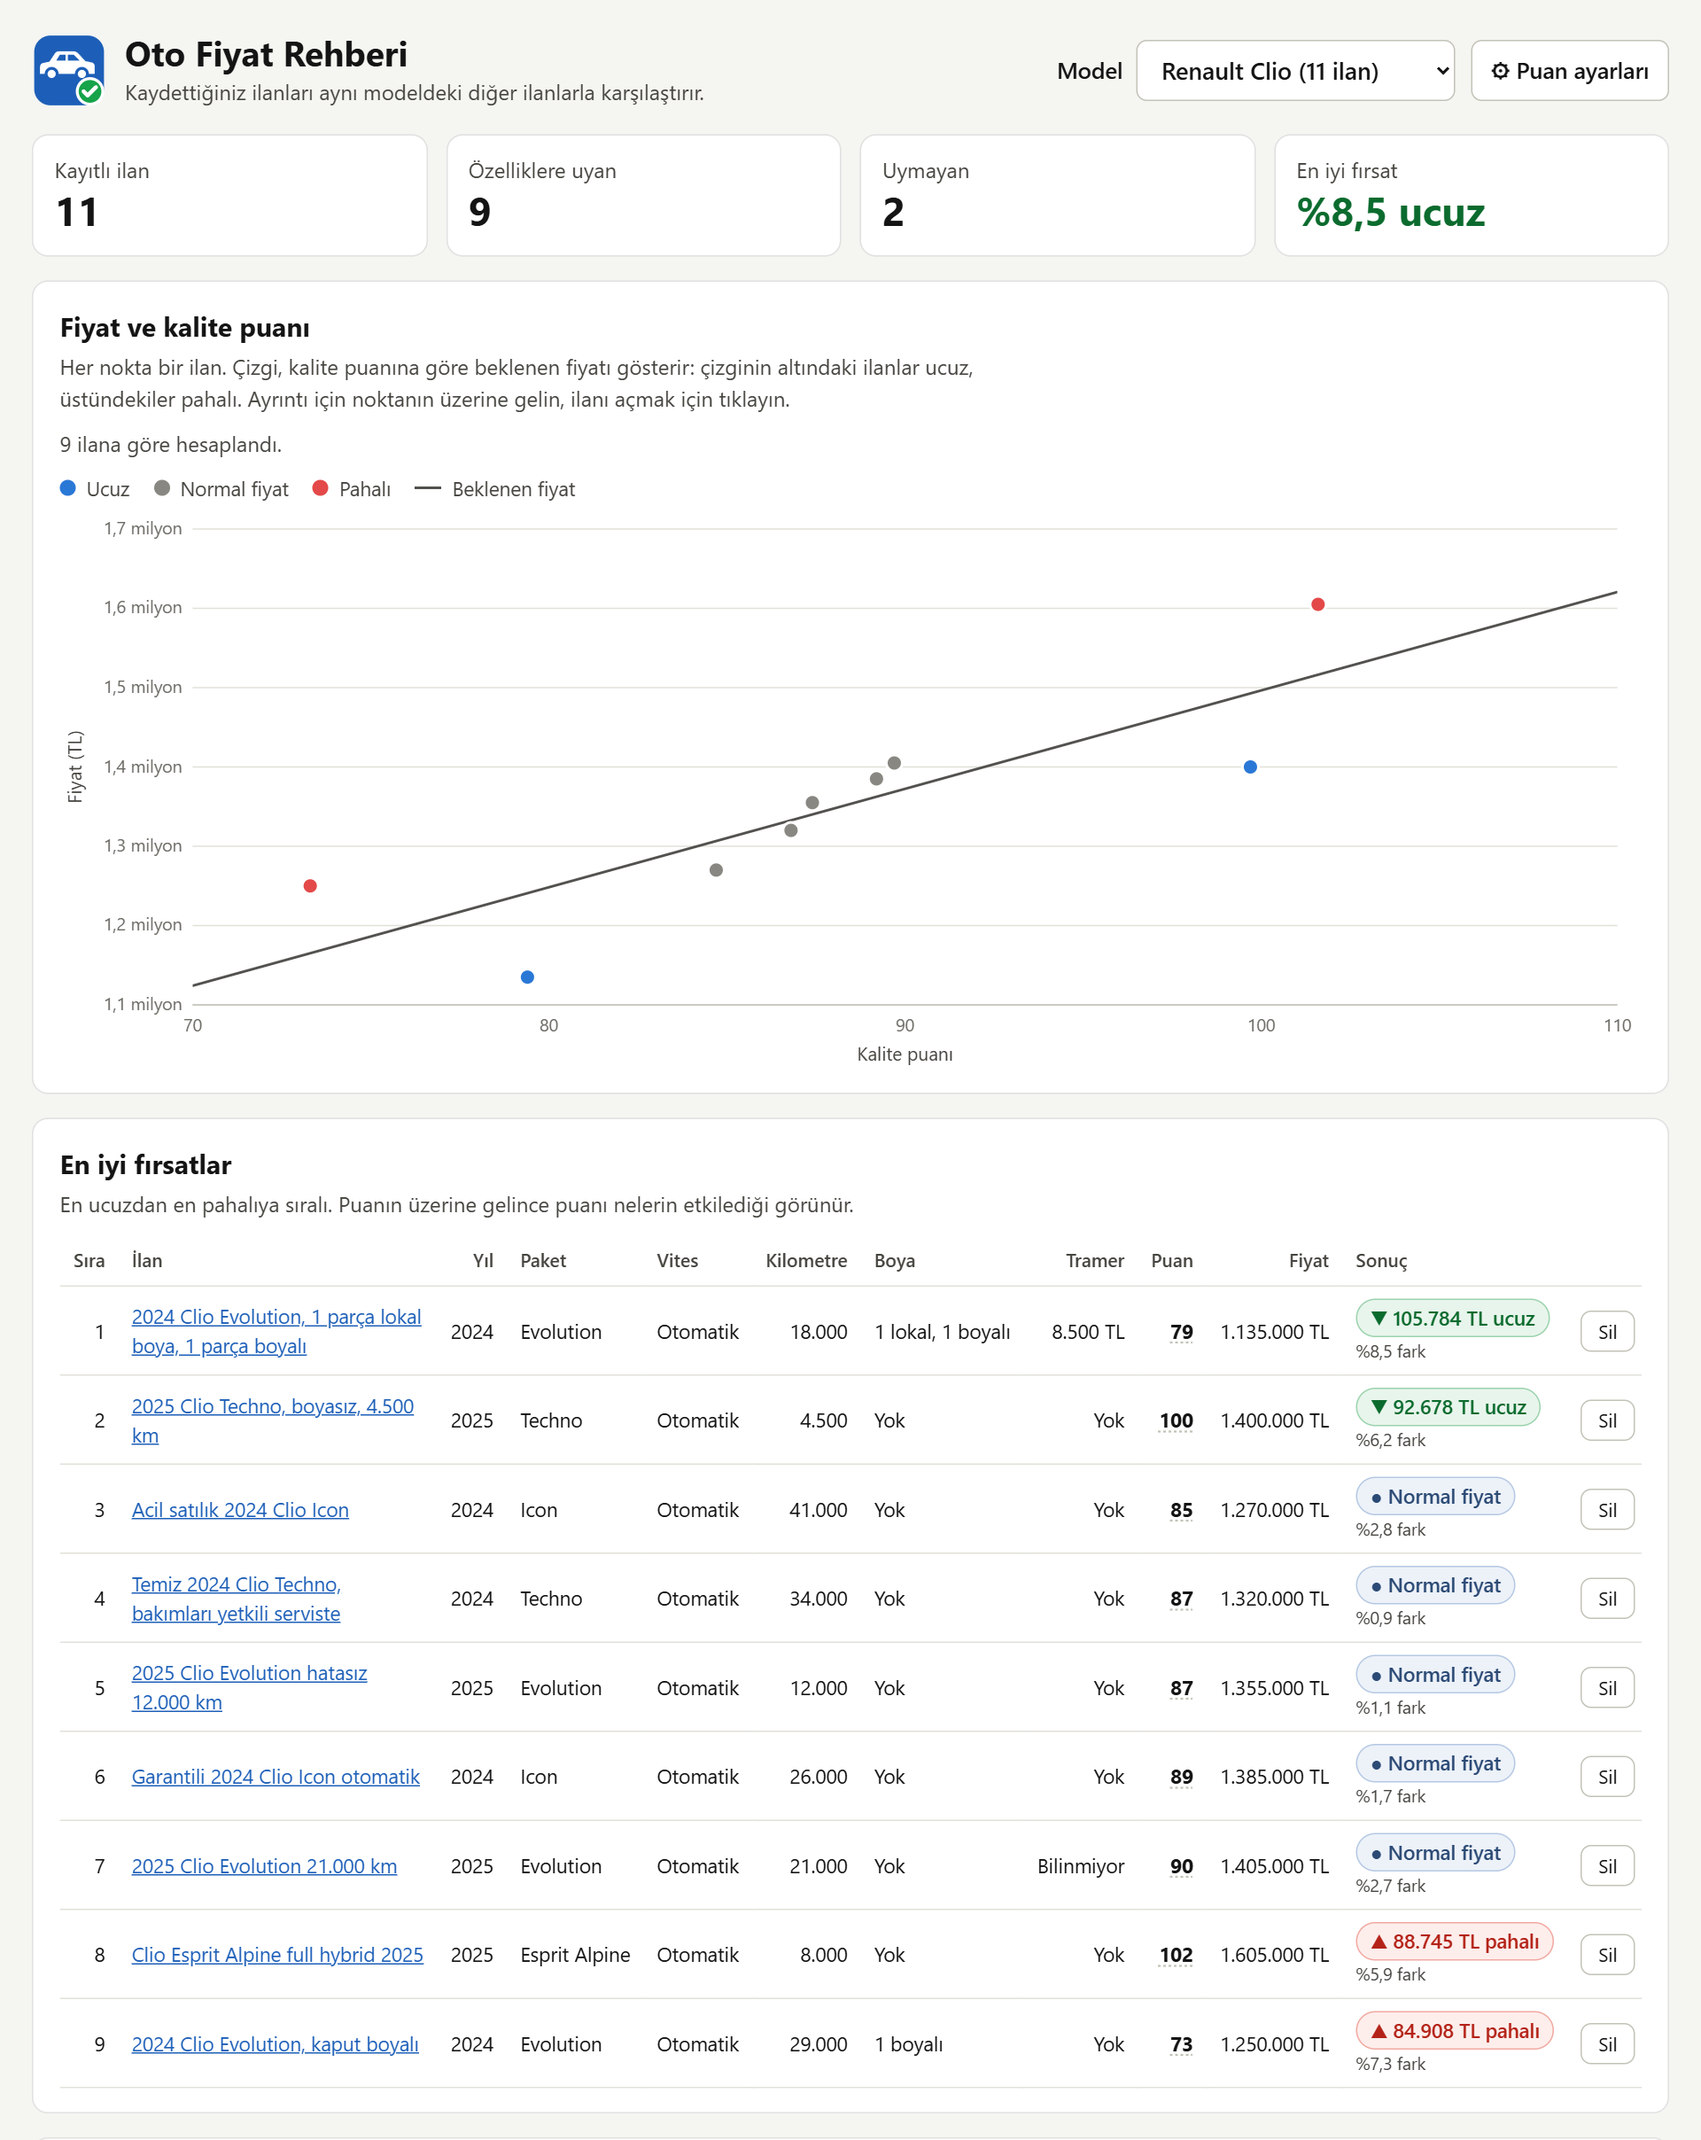
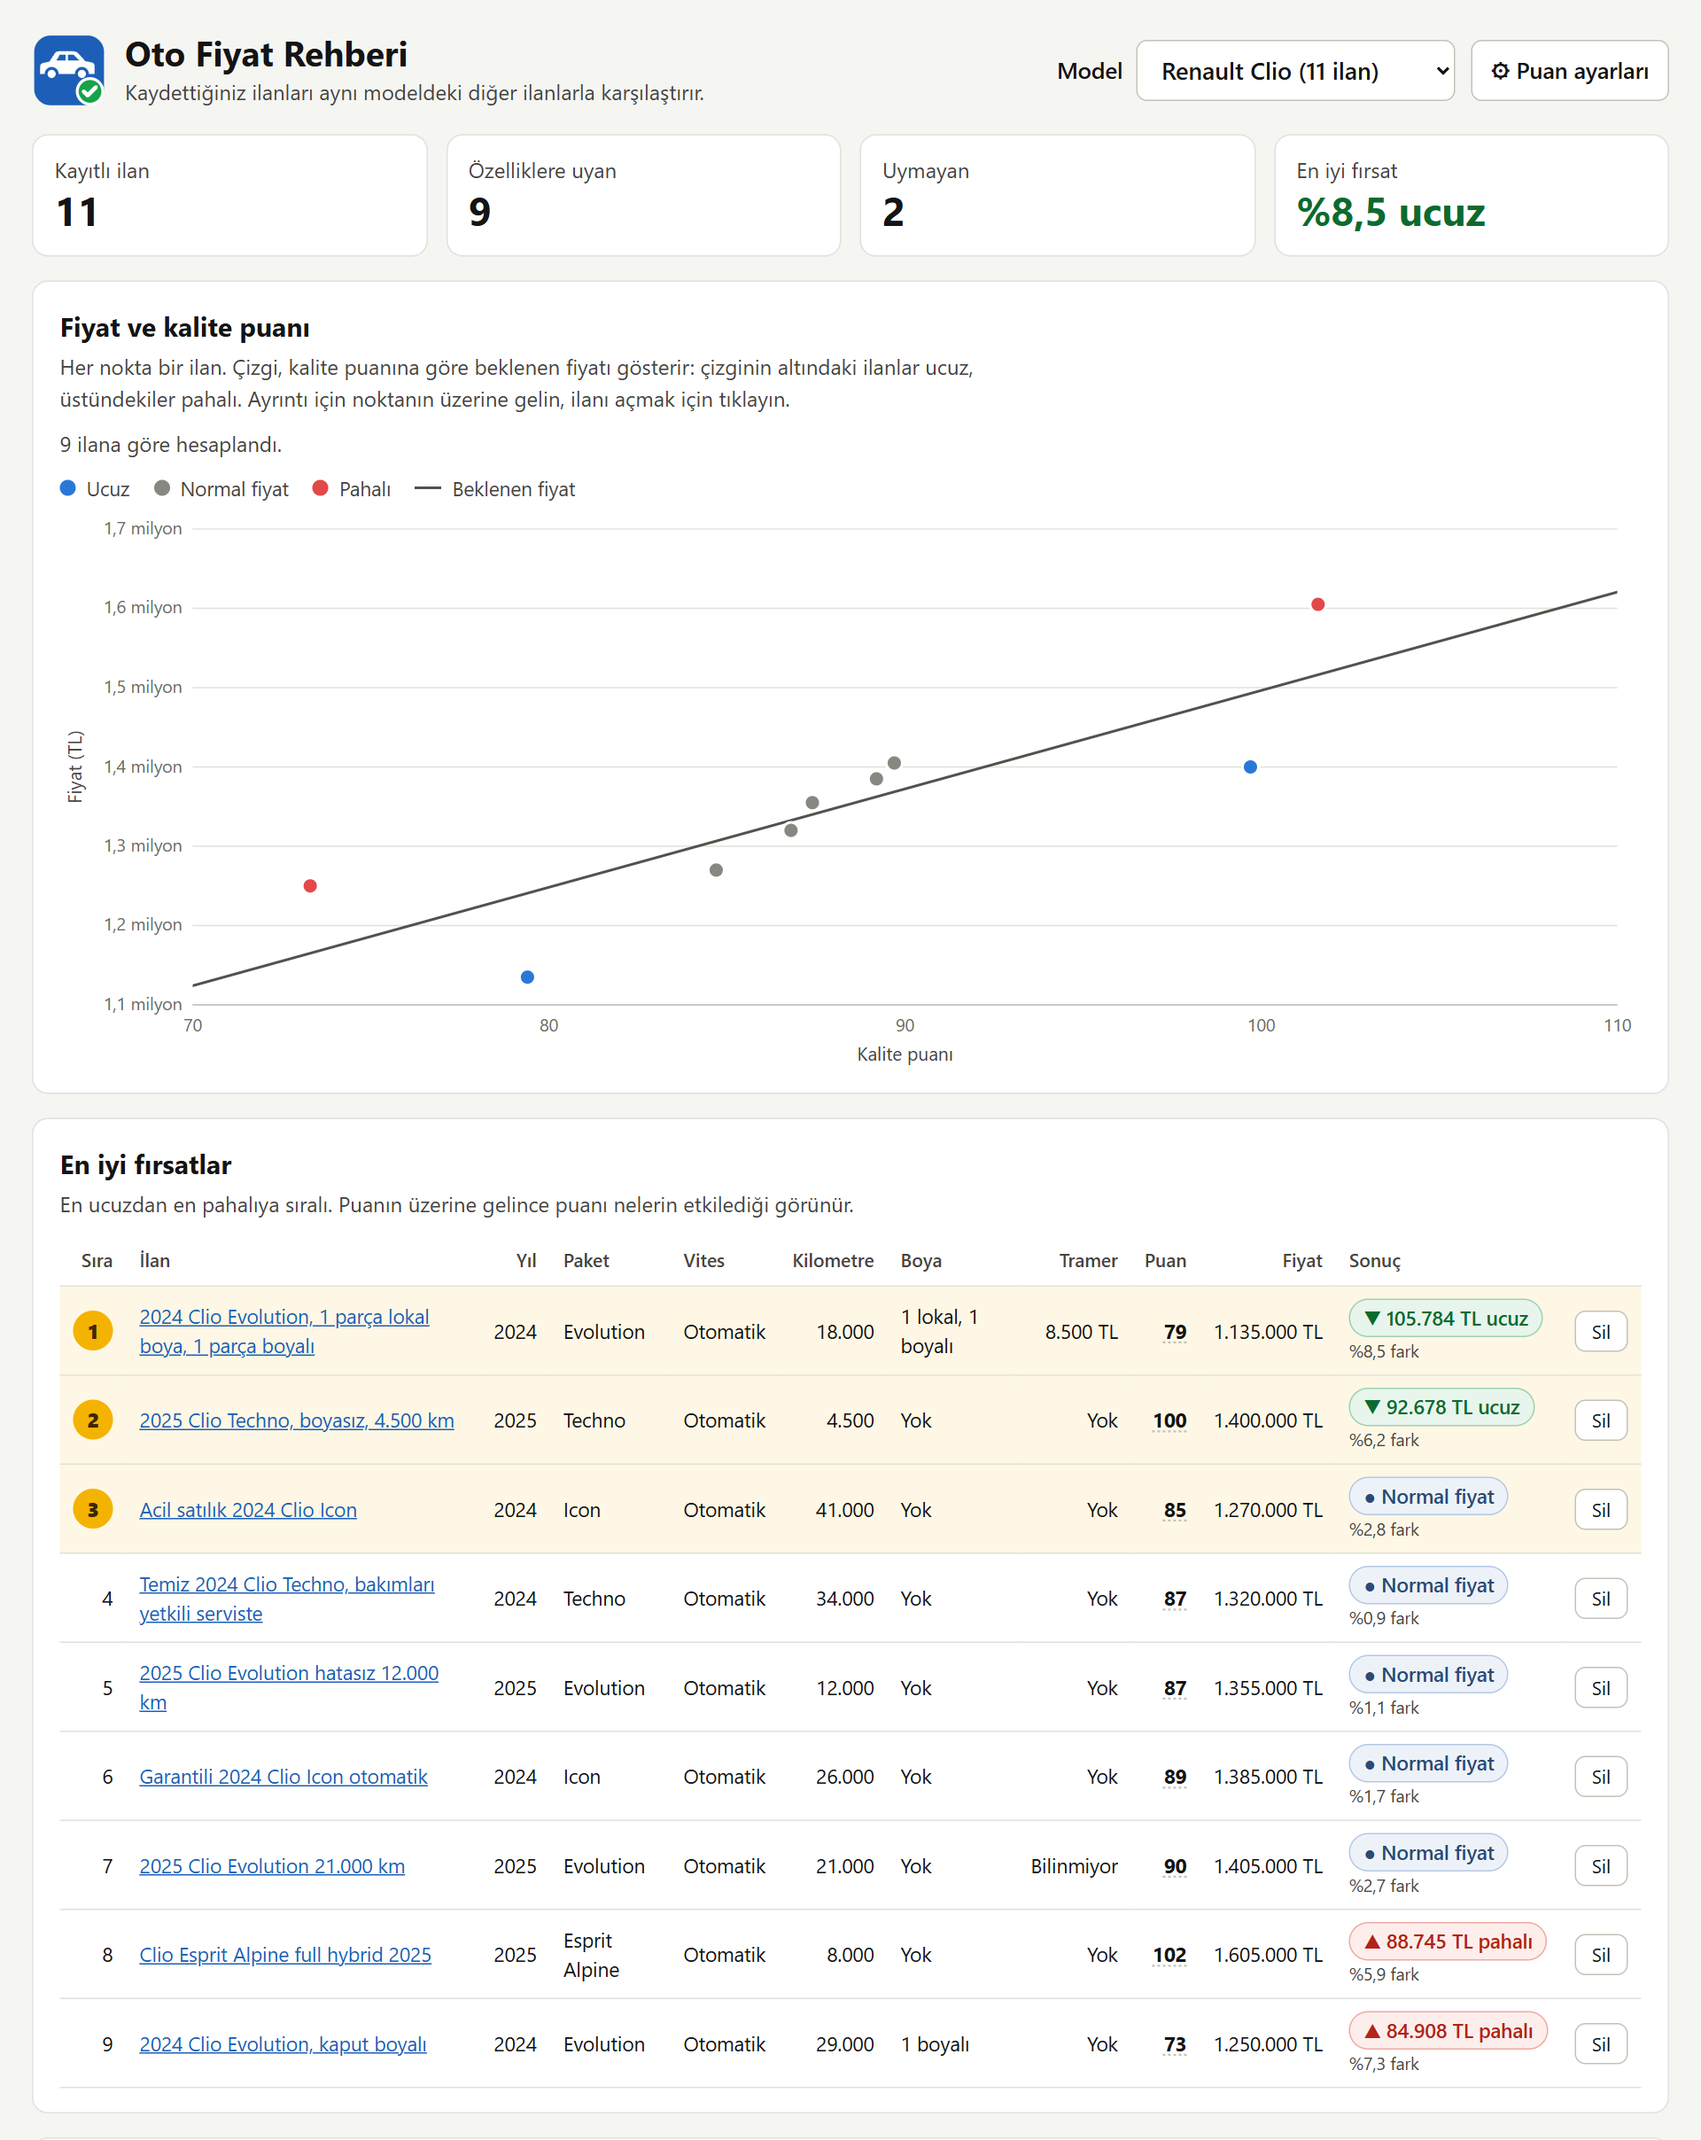
Show the listing's place in the deals ranking
The listing panel now says where the car stands in the dashboard's
"En iyi fırsatlar" table ("131 ilan içinde 3."). Places near the top get a
yellow block with a big rank badge: "En iyi fırsat!" for the first,
"En iyi 3 fırsattan biri" and "En iyi 10 fırsattan biri" when the model has
more listings than the tier covers. The dashboard table marks its top three
the same way. Nothing is shown until there is a price line, since the order
means nothing before that.

README screenshots of the panel and dashboard updated. Bumps the version to
0.3.7.

diff --git a/src/content/panel.js b/src/content/panel.js
@@ -61,6 +61,13 @@ var SCC = globalThis.SCC || (globalThis.SCC = {});
     .list li span:last-child { font-weight: 600; font-variant-numeric: tabular-nums; white-space: nowrap; }
     .verdict .list { margin-top: 10px; color: var(--ink); }
     .verdict .list li { border-color: rgba(0,0,0,.08); }
+    .rank { display: flex; align-items: center; gap: 12px; margin-top: 10px; padding: 10px 12px; line-height: 1.35;
+            color: #5c3b00; background: #fff8e6; border: 2px solid #f3d27a; border-radius: 10px; }
+    .rank.podium { background: #fff1c7; border-color: #e9b42a; }
+    .rank b { font-size: 17px; }
+    .rank-num { flex: none; display: grid; place-items: center; width: 44px; height: 44px; border-radius: 50%;
+                font-size: 19px; font-weight: 800; color: #3d2900; background: #f8d77a; }
+    .podium .rank-num { background: #f5b301; }
     .reasons { margin-top: 6px; color: var(--ink); }
     .reasons li { position: relative; padding: 2px 0 2px 18px; }
     .reasons li::before { content: "•"; position: absolute; left: 4px; }
@@ -126,14 +133,34 @@ var SCC = globalThis.SCC || (globalThis.SCC = {});
     return { tone: 'fair', icon: '●', word: 'Normal fiyat', text: `Bu kalitedeki bir araç için beklenen fiyatta (${percent(row.diffPct)} fark).` };
   }
 
+  // Places near the top of the deals table get a highlighted block of their own.
+  // A tier only counts when there are more cars than it covers ("top 10 of 6" says nothing).
+  function rankHighlight(rank, total, key) {
+    const tier =
+      rank === 1 && total > 1 ? 'En iyi fırsat!'
+      : rank <= 3 && total > 3 ? 'En iyi 3 fırsattan biri'
+      : rank <= 10 && total > 10 ? 'En iyi 10 fırsattan biri'
+      : null;
+    if (!tier) return '';
+    return `<div class="rank${rank <= 3 ? ' podium' : ''}">
+      <span class="rank-num">${rank}.</span>
+      <span><b>${tier}</b><br>${int(total)} ${esc(key)} ilanı içinde ${rank}. sırada</span>
+    </div>`;
+  }
+
   function verdictSection(row, group, v) {
     const reasons = row.eligible ? '' : `<ul class="reasons">${row.reasons.map((r) => `<li>${esc(r)}</li>`).join('')}</ul>`;
+    // Same order as the dashboard's "En iyi fırsatlar" table (cheapest for its score first).
+    const rank = group.eligible.indexOf(row) + 1;
+    const total = group.eligible.length;
+    const top = row.eligible && group.fit ? rankHighlight(rank, total, group.key) : '';
     const prices =
       row.eligible && group.fit
         ? `<ul class="list">${listItems([
             ['İlan fiyatı', tl(row.listing.price)],
             ['Beklenen fiyat', tl(row.predicted)],
-          ])}</ul>
+            ...(top ? [] : [['Fırsat sırası', `${int(total)} ilan içinde ${rank}.`]]),
+          ])}</ul>${top}
           <p class="hint">${group.eligible.length} ${esc(group.key)} ilanına göre hesaplandı.</p>`
         : '';
     return `

diff --git a/dashboard/dashboard.js b/dashboard/dashboard.js
@@ -148,8 +148,11 @@
     const body = rows
       .map((r, i) => {
         const l = r.listing;
-        return `<tr data-anchor="e-${esc(l.id)}">
-          <td class="num">${start + i + 1}</td>
+        const rank = start + i + 1;
+        // The order only means something once there is a price line.
+        const podium = group.fit && rank <= 3;
+        return `<tr data-anchor="e-${esc(l.id)}"${podium ? ' class="podium"' : ''}>
+          <td class="num">${podium ? `<span class="medal">${rank}</span>` : rank}</td>
           <td class="title"><a href="${esc(l.url)}" target="_blank">${esc(l.title || l.id)}</a></td>
           <td class="num">${l.year ?? '–'}</td>
           <td class="text">${esc(r.trim || l.model || '–')}</td>

diff --git a/dashboard/dashboard.css b/dashboard/dashboard.css
@@ -161,3 +161,9 @@ td small { display: block; color: var(--ink-2); font-size: 13px; }
 .pager .total { color: var(--ink-2); }
 .pager .size { margin-left: auto; display: flex; align-items: center; gap: 8px; color: var(--ink-2); }
 .pager select { min-height: 42px; font-weight: 600; }
+
+/* The top three deals. */
+tbody tr.podium { background: rgba(245, 179, 1, 0.1); }
+tbody tr.podium:hover { background: rgba(245, 179, 1, 0.16); }
+.medal { display: inline-grid; place-items: center; width: 30px; height: 30px; border-radius: 50%;
+         font-weight: 800; color: #3d2900; background: #f5b301; }
